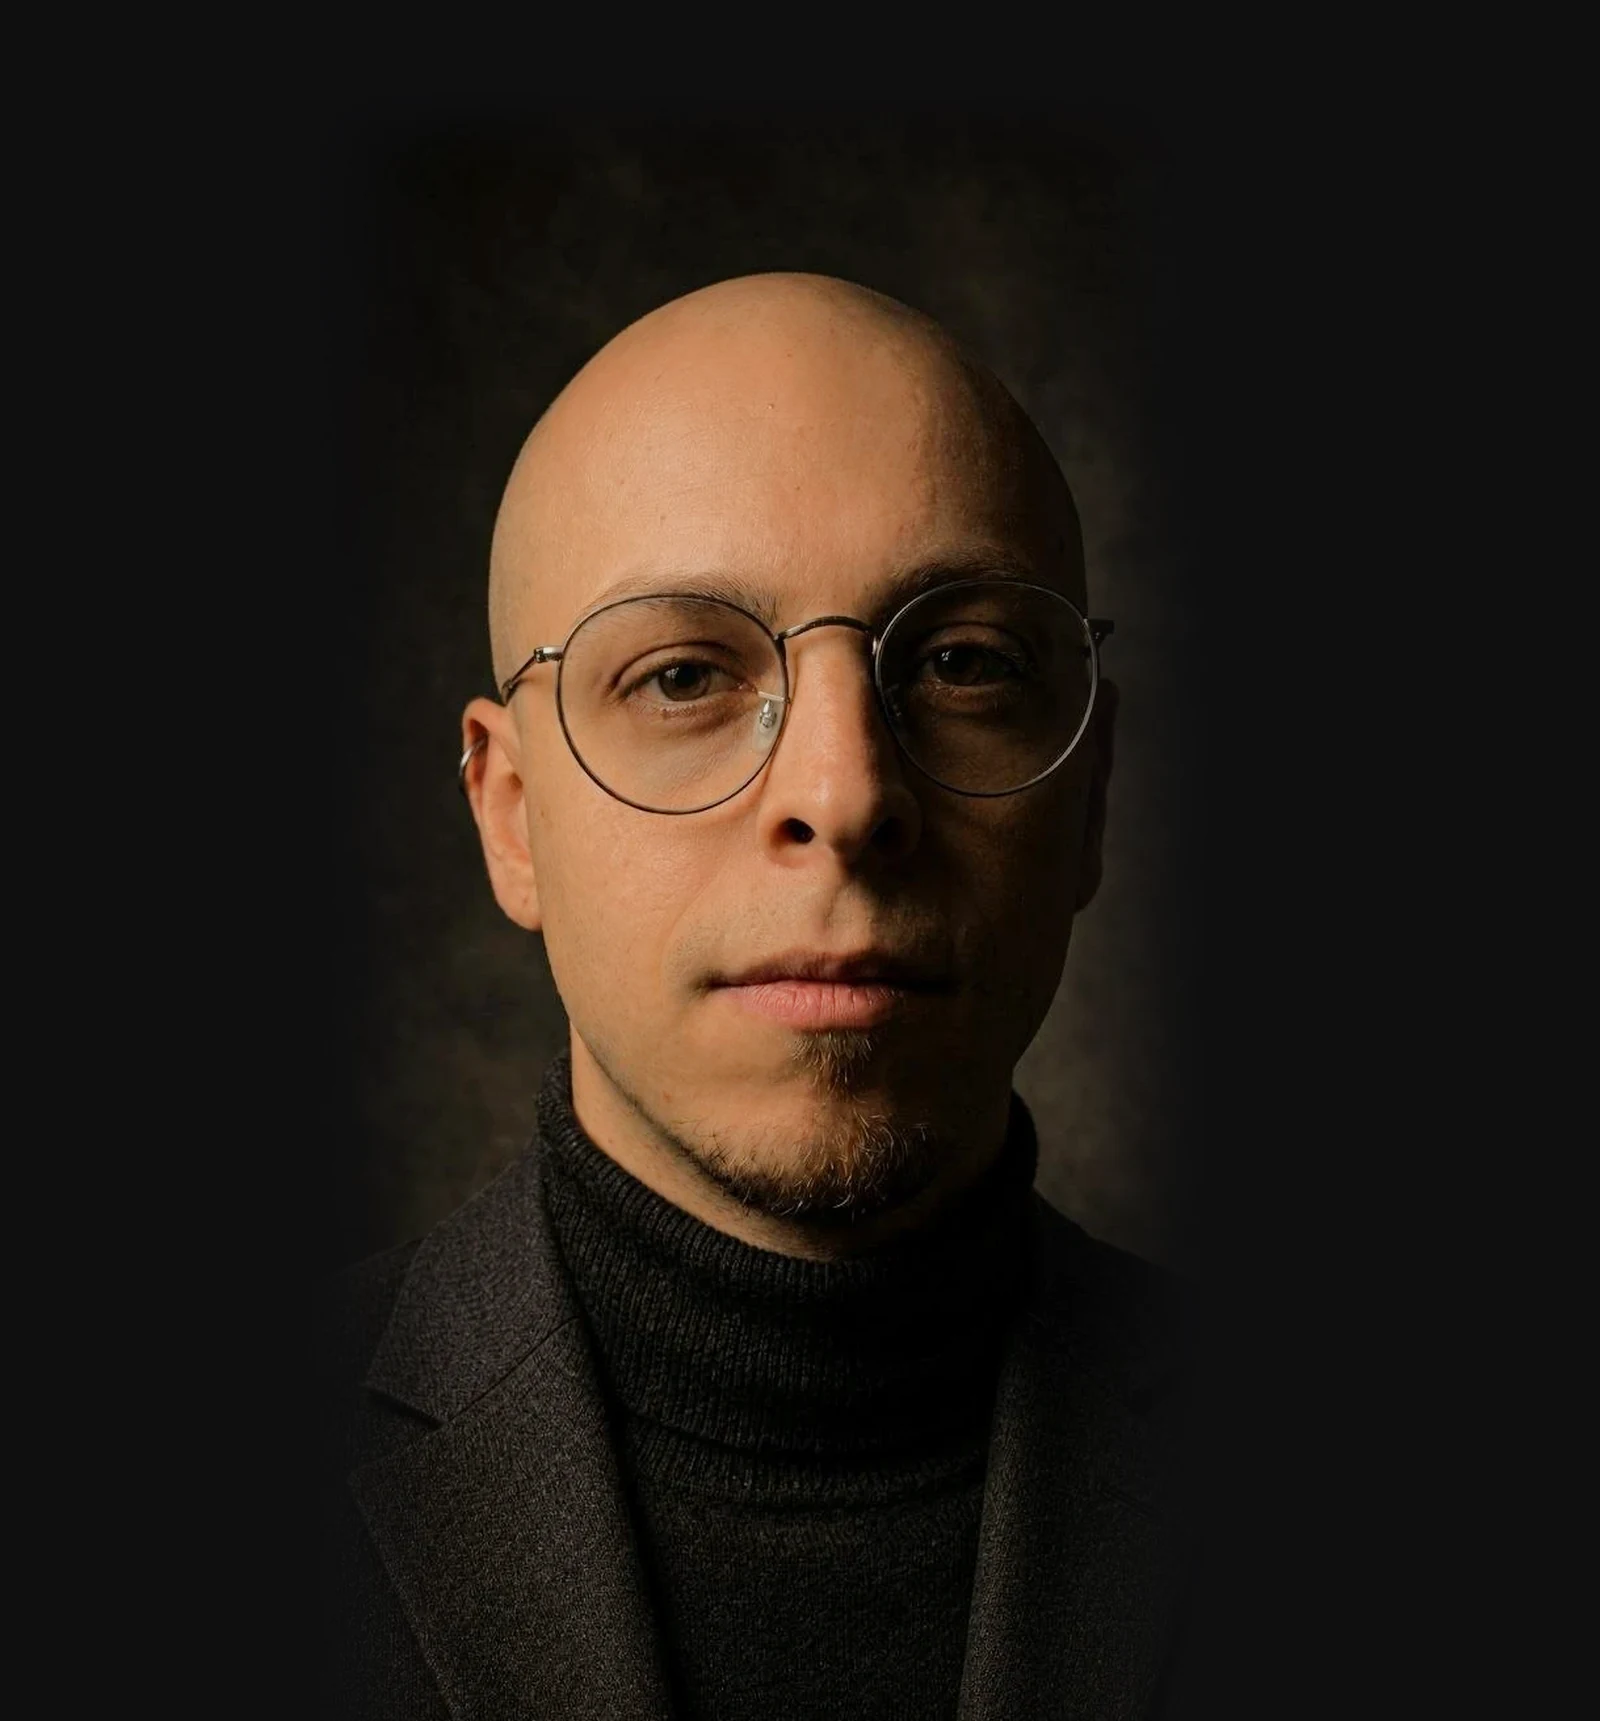
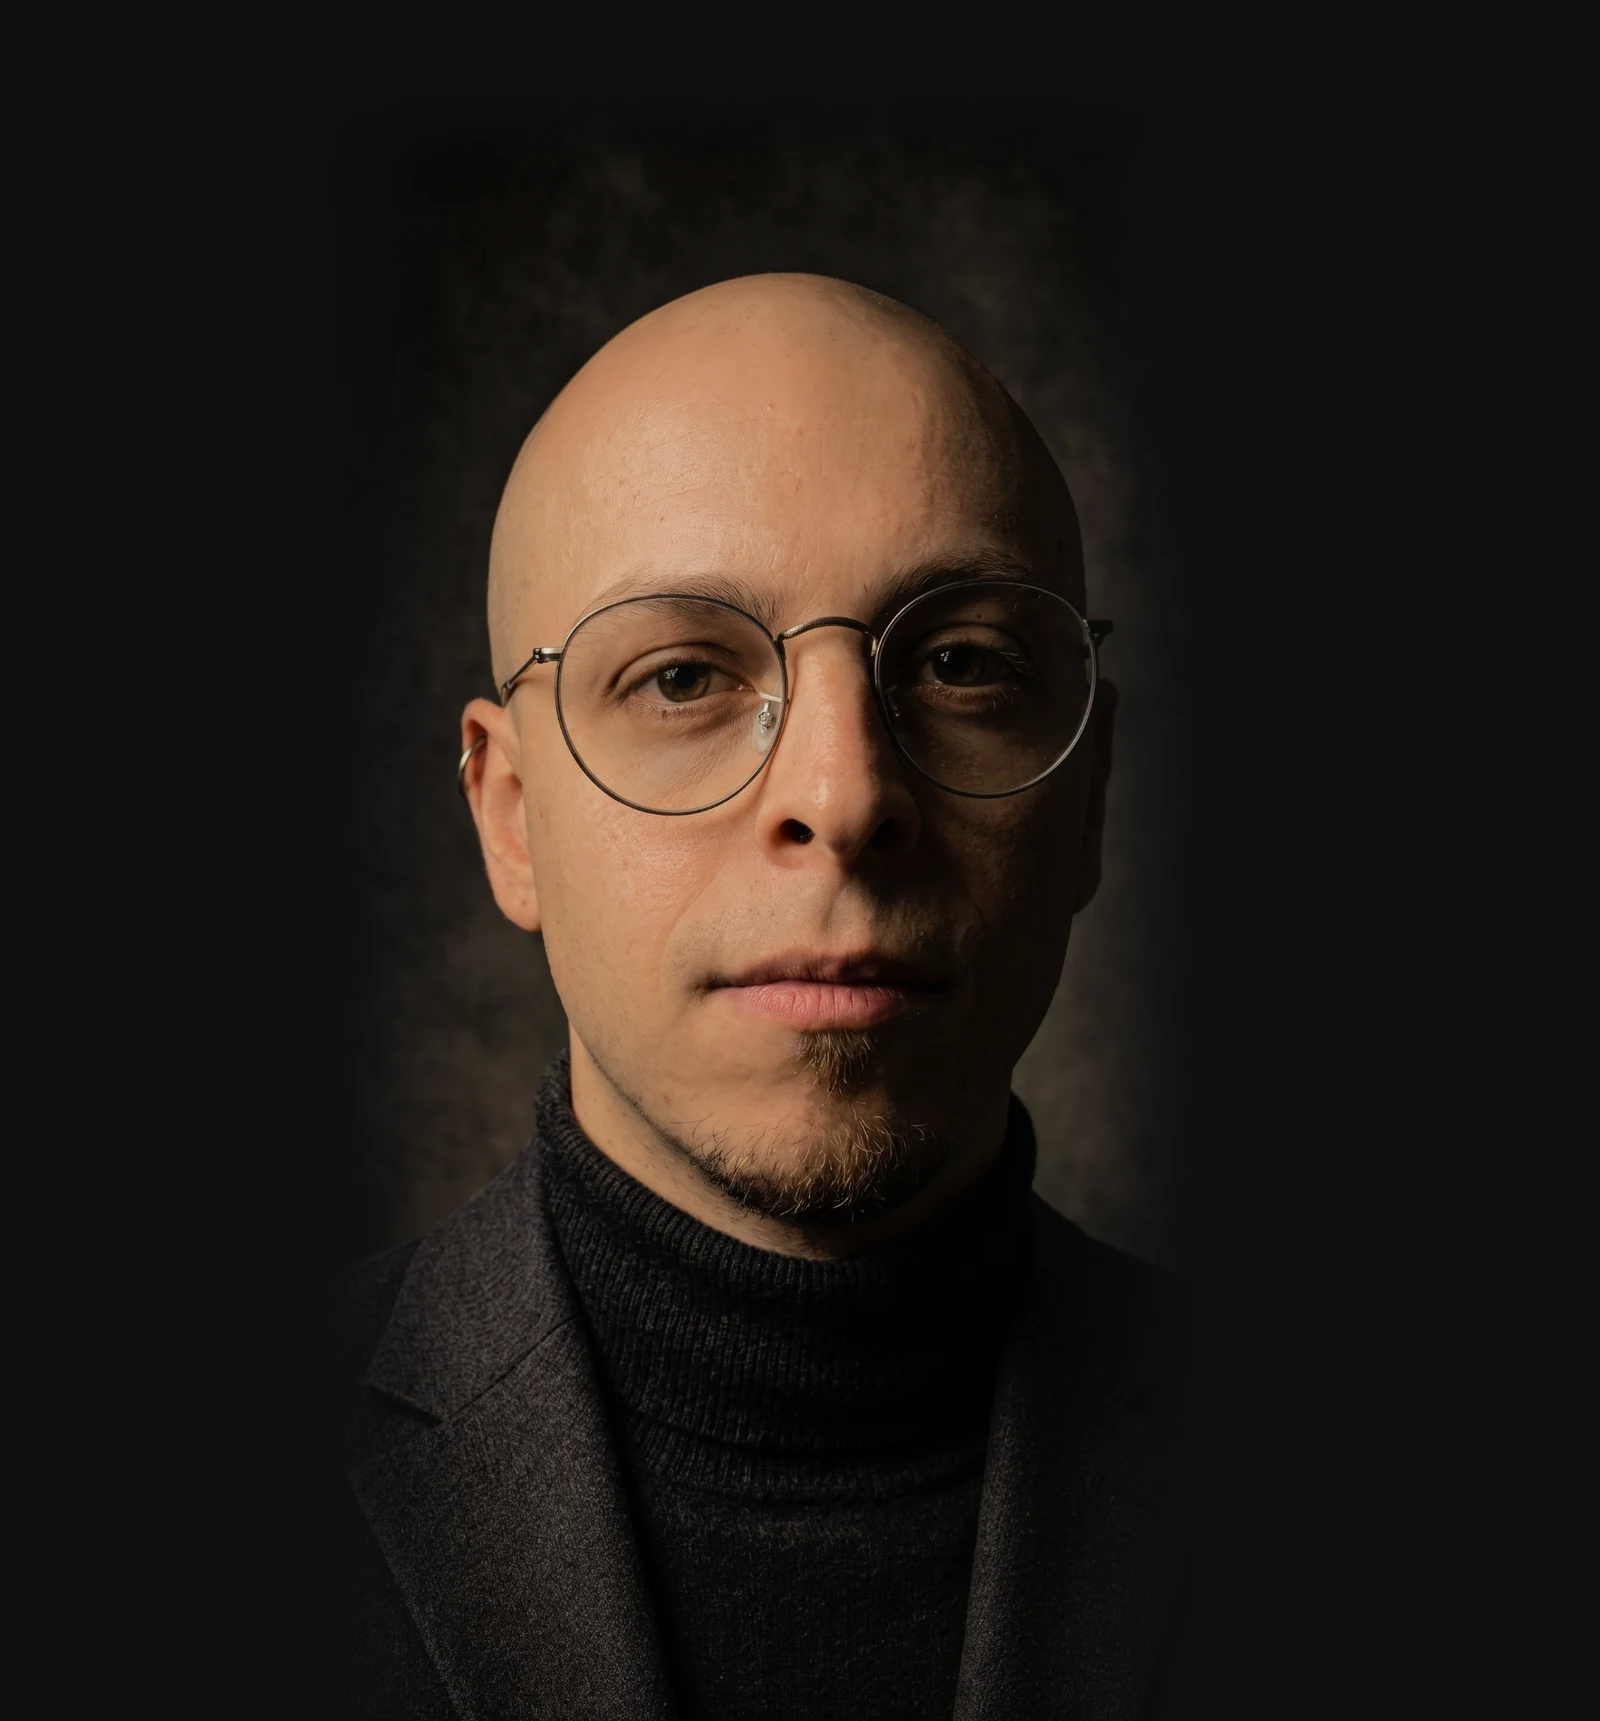
Foto in home: nuova versione a risoluzione più alta (#453)
* Firma scritta a mano su nome e saluto in home

Destiny Signature (sottoinsieme latino, woff2) solo per il nome nella
barra in alto e per il saluto in home; gli altri titoli restano in
Bodoni Moda. Dimensioni e interlinea adattate perché le lettere lunghe
non tocchino il testo sotto.

Claude-Session: https://claude.ai/code/session_0117AcoAoRNxCeiVuVm8eKGz

* Saluto in home senza punto finale

Claude-Session: https://claude.ai/code/session_0117AcoAoRNxCeiVuVm8eKGz

* Home: saluto in arancione, link di testo e striscia senza blocchi laterali

- "Ciao, sono Nicolò Forcolin" nel colore d'accento.
- I due pulsanti diventano link di testo arancioni sottolineati, alti
  almeno 44px; rimosse tutte le regole .hero-btn che li servivano.
- Tolti i due rettangoli arancioni ai lati della striscia dei progetti,
  con le regole CSS e la variabile --rail-width.

Claude-Session: https://claude.ai/code/session_0117AcoAoRNxCeiVuVm8eKGz

* Skyline di Padova in fondo alle pagine interne

Disegno della città sopra la riga del piè di pagina ("Padova, Italia")
su tutte le pagine tranne la home. Firma originale ritagliata via;
il fondo quasi nero del disegno si fonde con quello del sito tramite
mix-blend-mode: lighten.

Claude-Session: https://claude.ai/code/session_0117AcoAoRNxCeiVuVm8eKGz

* Anteprima dei link con lo skyline di Padova

og:image e twitter:image di tutte le pagine puntano a og-padova.jpg
(1200x630, disegno di Padova con la firma). og-image.png resta come
[…]

diff --git a/index.html b/index.html
@@ -96,9 +96,9 @@
     <div class="hero-photo-frame">
       <a class="scroll-btn" href="#hero-name"><span data-i18n="scroll_btn">Entra nel sito</span><svg viewBox="0 0 16 16" width="16" height="16" fill="none" stroke="currentColor" stroke-width="1.75" stroke-linecap="round" stroke-linejoin="round" aria-hidden="true" focusable="false"><path d="M8 2.5v11M3.5 9 8 13.5 12.5 9"/></svg></a>
       <picture>
-        <source media="(max-width:700px)" srcset="photo-mobile.webp?v=25" type="image/webp">
-        <source srcset="photo.webp?v=24" type="image/webp">
-        <img class="hero-portrait" id="avatarPhoto" src="photo.webp?v=24" alt="Nicolò Forcolin" width="4000" height="1696" fetchpriority="high">
+        <source media="(max-width:700px)" srcset="photo-mobile.webp?v=26" type="image/webp">
+        <source srcset="photo.webp?v=26" type="image/webp">
+        <img class="hero-portrait" id="avatarPhoto" src="photo.webp?v=26" alt="Nicolò Forcolin" width="4000" height="1696" fetchpriority="high">
       </picture>
     </div>
   </div>

diff --git a/tests/site-regression.test.js b/tests/site-regression.test.js
@@ -69,8 +69,8 @@ assert(home.includes('id="heroIntro"'), 'Hero intro paragraph missing');
 for (const language of ['it', 'en']) assert(dictionaries[language].includes('hero_intro:'), language + ': hero intro missing');
 assert(home.includes('data-i18n="skip_to_content"'), 'Skip link must be translated');
 assert(home.includes('class="hero-filmstrip"'), 'Hero filmstrip must link to the real pages');
-assert(home.includes('srcset="photo.webp?v=24"'), 'New portrait must be displayed');
-assert(home.includes('srcset="photo-mobile.webp?v=25"'), 'Mobile portrait crop must be displayed');
+assert(home.includes('srcset="photo.webp?v=26"'), 'New portrait must be displayed');
+assert(home.includes('srcset="photo-mobile.webp?v=26"'), 'Mobile portrait crop must be displayed');
 assert(!home.includes('class="info-dialog"'), 'Project dialogs were replaced by pages');
 
 assert(read('rag-aziendale.html').includes('data-i18n="c1_summary"'), 'RAG summary must remain');
